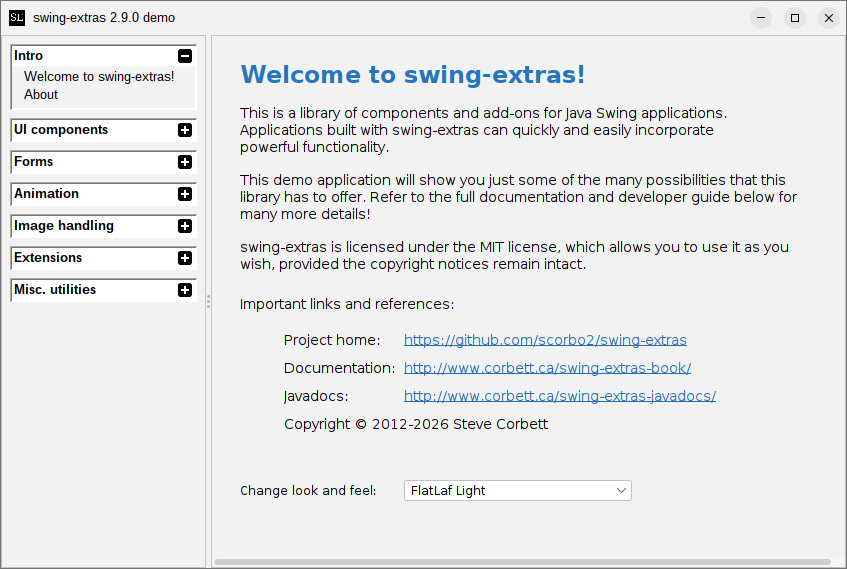
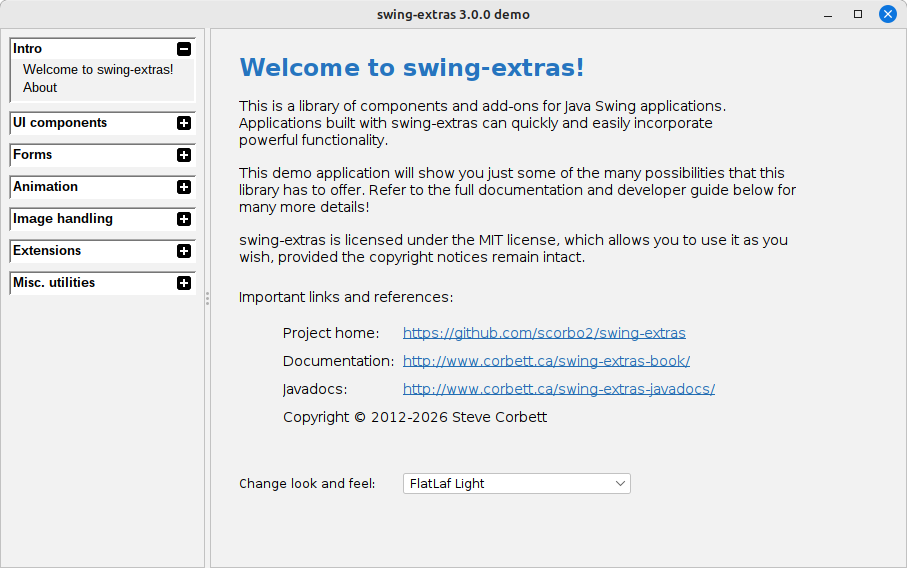
Final changes for 3.0 release! (#492)

Pull request: Final changes for 3.0 release!
This PR makes the final changes required for the `3.0` release:

- Update README and Release Announcements docs
- Update copilot instructions to with latest changes
- Update version constants as needed
- Mention release date in releaseNotes.txt

diff --git a/src/main/java/ca/corbett/extras/Version.java b/src/main/java/ca/corbett/extras/Version.java
@@ -29,7 +29,7 @@ public final class Version {
         aboutInfo.projectUrl = PROJECT_URL;
         aboutInfo.logoImageLocation = "/swing-extras/images/swing-extras-logo.jpg";
         aboutInfo.applicationName = Version.NAME;
-        aboutInfo.applicationVersion = Version.VERSION + "-SNAPSHOT"; // TODO remove SNAPSHOT before release
+        aboutInfo.applicationVersion = Version.VERSION;
 
         // Applications can optionally show "built with swing-extras X.Y" in their about box
         // along with a link to the swing-extras product page, but we will disable that

diff --git a/.github/copilot-instructions.md b/.github/copilot-instructions.md
@@ -5,17 +5,17 @@
 **swing-extras** is a Java Swing component library providing custom UI components and utilities for Java desktop applications. The library includes form fields, property management, extensions system, image/audio utilities, and a comprehensive demo application.
 
 - **Type**: Maven-based Java library
-- **Language**: Java 17
+- **Language**: Java 25
 - **Size**: ~219 source files, ~88 test files
 - **Main Output**: JAR library + runnable demo application
-- **Version**: 2.7.0 is in production
+- **Version**: 3.0.0 is in production
 - **License**: MIT
 
 ## Key Dependencies and Frameworks
 
-- **Java**: 17 (required - do not change)
+- **Java**: 25 (required - do not change)
 - **Maven**: 3.9.11+
-- **Testing**: JUnit 5.12.1, Mockito 5.14.2
+- **Testing**: JUnit 6.0.3, Mockito 5.23.0
 - **UI Libraries**: FlatLaf 3.7.1
 - **Serialization**: Gson 2.12.1
 
@@ -46,7 +46,7 @@
    xvfb-run mvn test
    ```
    - Takes ~12 seconds
-   - Runs 1325 tests (3 tests are skipped - this is normal)
+   - Runs 1793 tests (2 tests are skipped - this is normal)
    - **MUST** use `xvfb-run` prefix or tests will fail with "No X11 DISPLAY variable was set" errors
    - **WITHOUT** xvfb-run: many errors occur due to headless environment
    - Adding `-Djava.awt.headless=true` does NOT fix the issue - still causes failures
@@ -56,10 +56,10 @@
    mvn package -DskipTests
    ```
    Takes ~15 seconds. Creates:
-   - `target/swing-extras-2.7.0.jar` (1MB - library only)
-   - `target/swing-extras-2.7.0-jar-with-dependencies.jar` (3.7MB - runnable with demo)
-   - `target/swing-extras-2.7.0-sources.jar` (794KB)
-   - `target/swing-extras-2.7.0-javadoc.jar` (1.8MB)
+   - `target/swing-extras-3.0.0.jar` (1MB - library only)
+   - `target/swing-extras-3.0.0-jar-with-dependencies.jar` (3.7MB - runnable with demo)
+   - `target/swing-extras-3.0.0-sources.jar` (794KB)
+   - `target/swing-extras-3.0.0-javadoc.jar` (1.8MB)
 
 5. **Full build with tests**:
    ```bash
@@ -82,7 +82,7 @@
 
 After building with `mvn package`:
 ```bash
-java -jar target/swing-extras-2.7.0-jar-with-dependencies.jar
+java -jar target/swing-extras-3.0.0-jar-with-dependencies.jar
 ```
 Note: Requires a graphical environment. Main class: `ca.corbett.extras.demo.DemoAppLauncher`
 
@@ -128,6 +128,7 @@ src/
 │   │   │   └── demo/           - Extension demos
 │   │   ├── extras/             - Utility components
 │   │   │   ├── about/          - About dialog
+│   │   │   ├── actionpanel/    - Custom action grouping UI component
 │   │   │   ├── audio/          - Audio waveform visualization
 │   │   │   ├── crypt/          - Cryptography utilities (hashing, signing)
 │   │   │   ├── demo/           - Main demo application
@@ -168,7 +169,7 @@ src/
 ### Configuration Files
 
 **Maven** (`pom.xml`):
-- Compiler source/target: Java 17
+- Compiler source/target: Java 25
 - Main plugins: maven-compiler-plugin, maven-surefire-plugin, maven-assembly-plugin, maven-javadoc-plugin, maven-source-plugin, maven-gpg-plugin
 - Assembly creates jar-with-dependencies for demo app
 - Main class: `ca.corbett.extras.demo.DemoAppLauncher`
@@ -226,14 +227,14 @@ src/
 - GPG signing (verify phase) will fail without configured keys - this is expected for local development
 
 ### Java Version Requirements
-- **Java 17 is required** - set in pom.xml as `maven.compiler.source` and `maven.compiler.target`
+- **Java 25 is required** - set in pom.xml as `maven.compiler.source` and `maven.compiler.target`
 - Do not change Java version without testing all Swing components
 - Modern Java features (records, pattern matching) are NOT widely used in this codebase
 
 ### Test Execution
 - **ALWAYS** use `xvfb-run mvn test` for running tests
 - Never use `-Djava.awt.headless=true` - it doesn't work for Swing tests
-- 3 skipped tests is normal (likely environment-dependent tests)
+- 2 skipped tests is normal (likely environment-dependent tests)
 - Test execution time: ~12 seconds
 
 ### Code Modification Guidelines
@@ -245,7 +246,7 @@ src/
 ## Trust These Instructions
 
 These instructions have been validated by running all commands successfully. If you encounter different behavior:
-1. Verify you're using Java 17 and Maven 3.9.11+
+1. Verify you're using Java 25 and Maven 3.9.11+
 2. Ensure you're in the project root directory
 3. Check that `xvfb-run` is available for test execution
 4. Only search for additional information if these instructions are incomplete or incorrect for your specific task

diff --git a/README.md b/README.md
@@ -12,20 +12,16 @@ You can browse the full documentation online:
 - <http://www.corbett.ca/swing-extras-book/>
 - The [javadocs](http://www.corbett.ca/swing-extras-javadocs/) are also available.
 
-## TODO: add release announcement for 3.0 when ready, and archive the 2.9 one.
+## NEWS! June 21, 2026 - swing-extras 3.0 is here!
 
-If you're reading this, it means I forgot to write a release announcement for the 3.0 release. Oops!
-TODO fix this!
+The `3.0` release moves the project from Java 17 to the latest LTS Java version (Java 25).
+The following improvements and additions are also included in this release:
 
-## NEWS! April 13, 2026 - swing-extras 2.9 is here!
-
-This is a bug fix / maintenance release of the library, with mostly minor improvements.
-Notable changes in the 2.9 release include:
-
-- New utility class: `FallbackExceptionHandler`
-- Better error handling in `ImageUtil`'s various image loading methods
-- `FileField` now supports icon-based buttons as well as just text
-- Minor improvements in `AppProperties`
+- Improvements to file/directory searching in the `io` package
+- New `FileWatcher` utility class for monitoring file system changes
+- Numerous Windows-specific bug fixes for better cross-platform compatibility
+- Numerous improvements to the `TextInputDialog` component
+- New `AgreementDialog` component for displaying terms of service and similar agreements
 
 And more! View the [full release notes](src/main/resources/swing-extras/releaseNotes.txt) for details,
 or check out the [archived release announcements](ReleaseAnnouncements.md) for details on previous releases.

diff --git a/ReleaseAnnouncements.md b/ReleaseAnnouncements.md
@@ -2,7 +2,19 @@
 
 Older release announcements for swing-extras releases will be archived here.
 
-## NEWS! March 8, 2026 - swing-extras 2.8 is here!
+## April 13, 2026 - swing-extras 2.9 is here!
+
+This is a bug fix / maintenance release of the library, with mostly minor improvements.
+Notable changes in the 2.9 release include:
+
+- New utility class: `FallbackExceptionHandler`
+- Better error handling in `ImageUtil`'s various image loading methods
+- `FileField` now supports icon-based buttons as well as just text
+- Minor improvements in `AppProperties`
+
+And more! View the [full release notes](src/main/resources/swing-extras/releaseNotes.txt) for details.
+
+## March 8, 2026 - swing-extras 2.8 is here!
 
 This release introduces the new ActionPanel component, which is a useful
 and highly configurable navigation component. The demo application has been